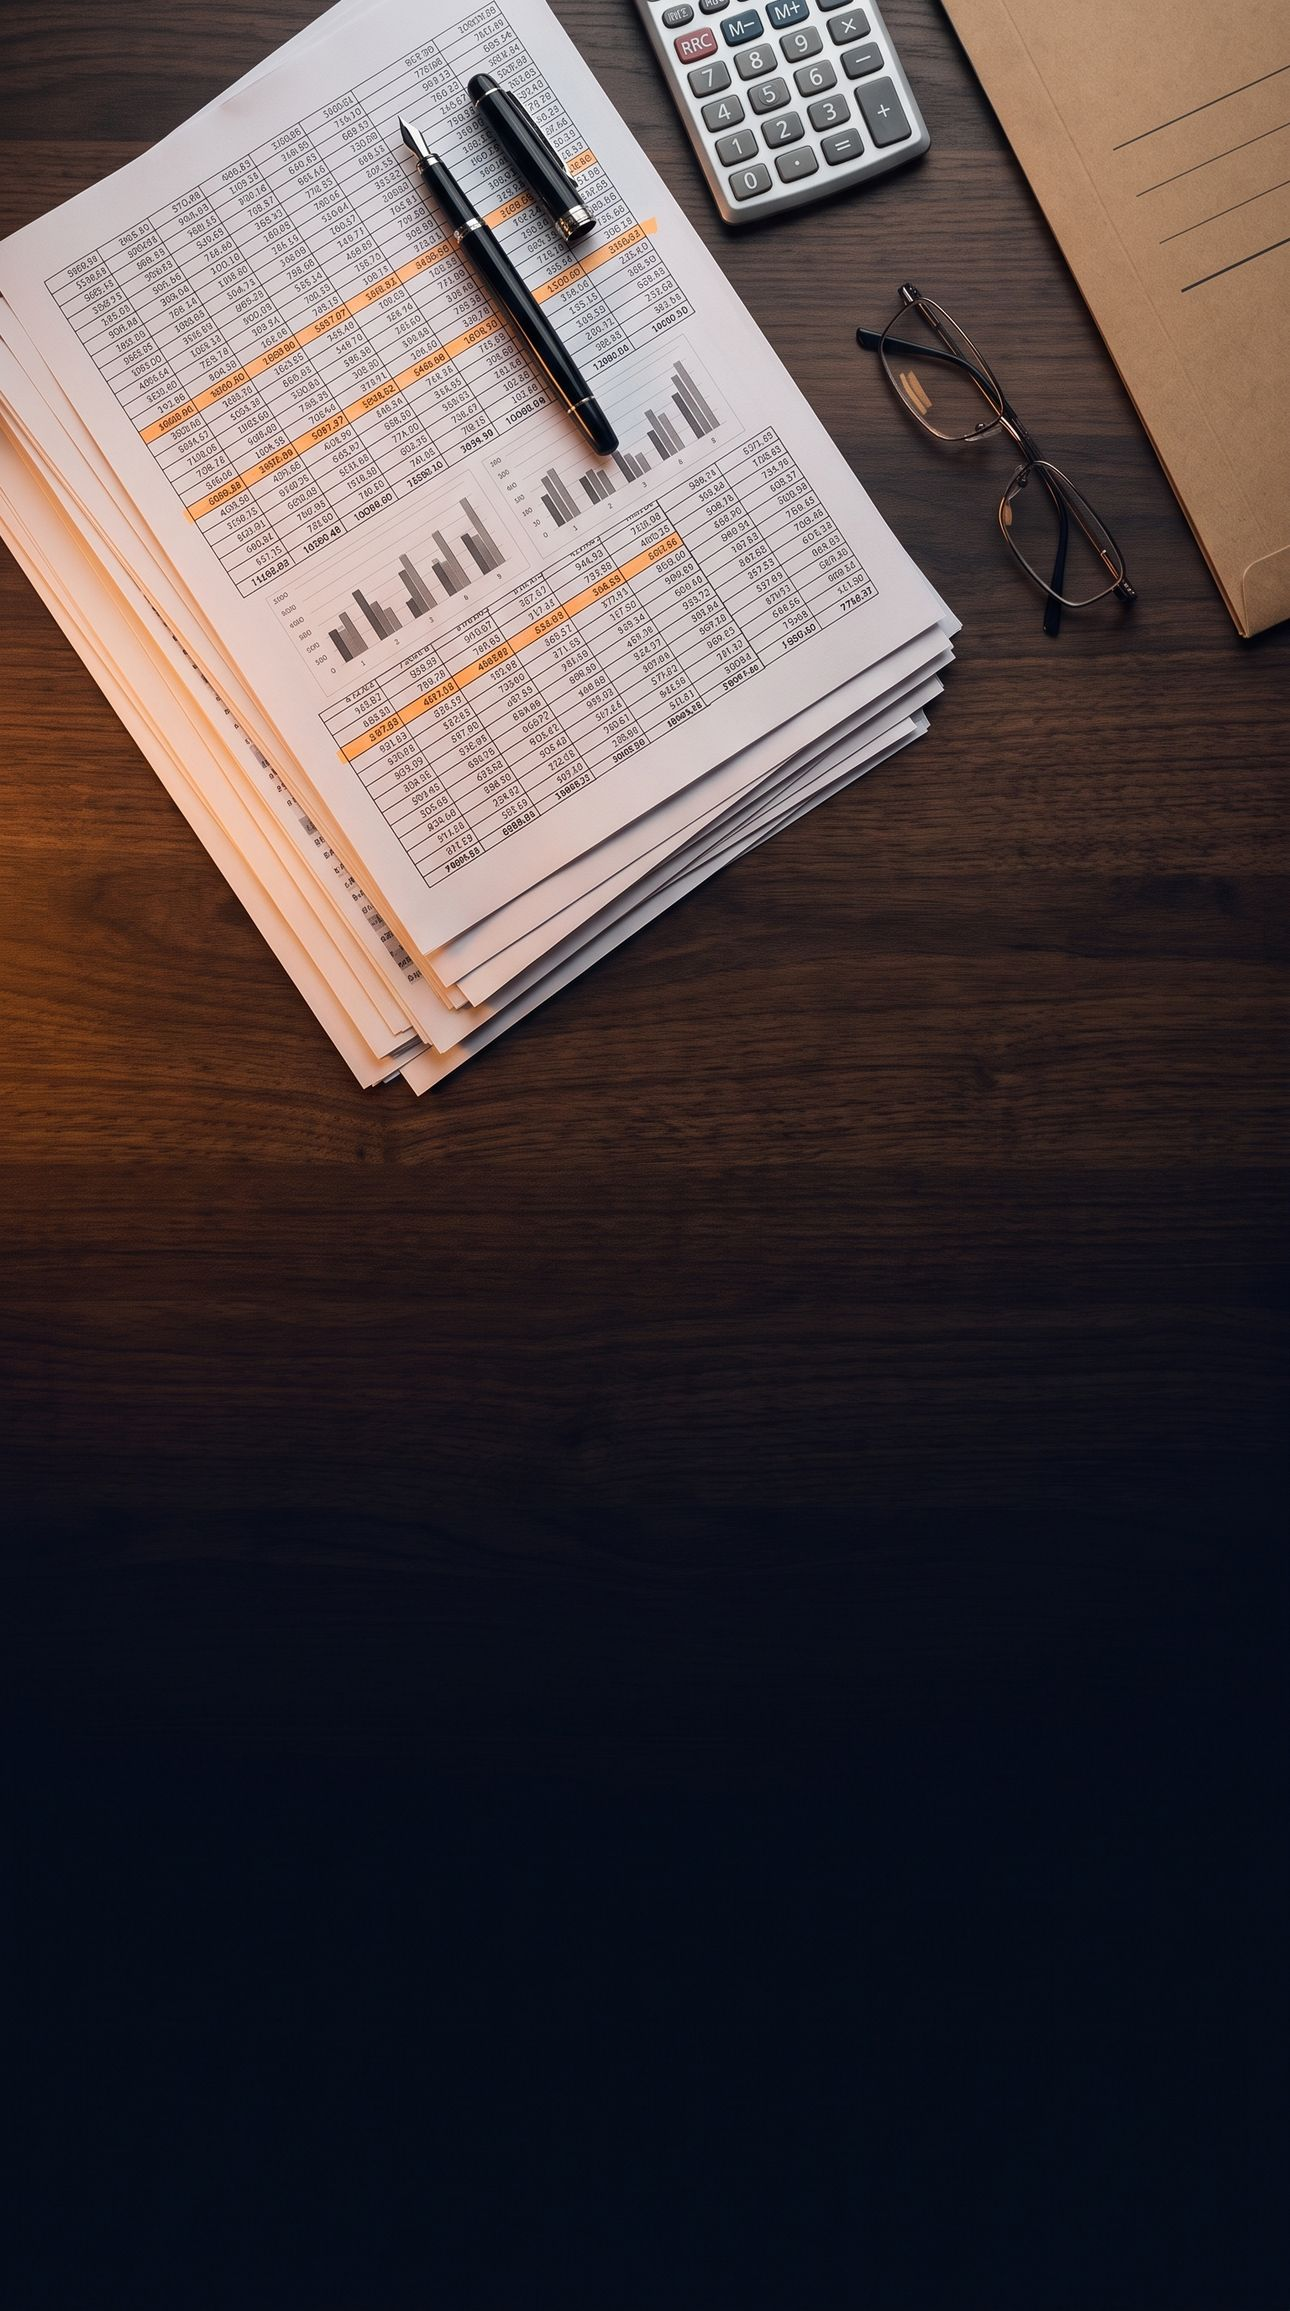
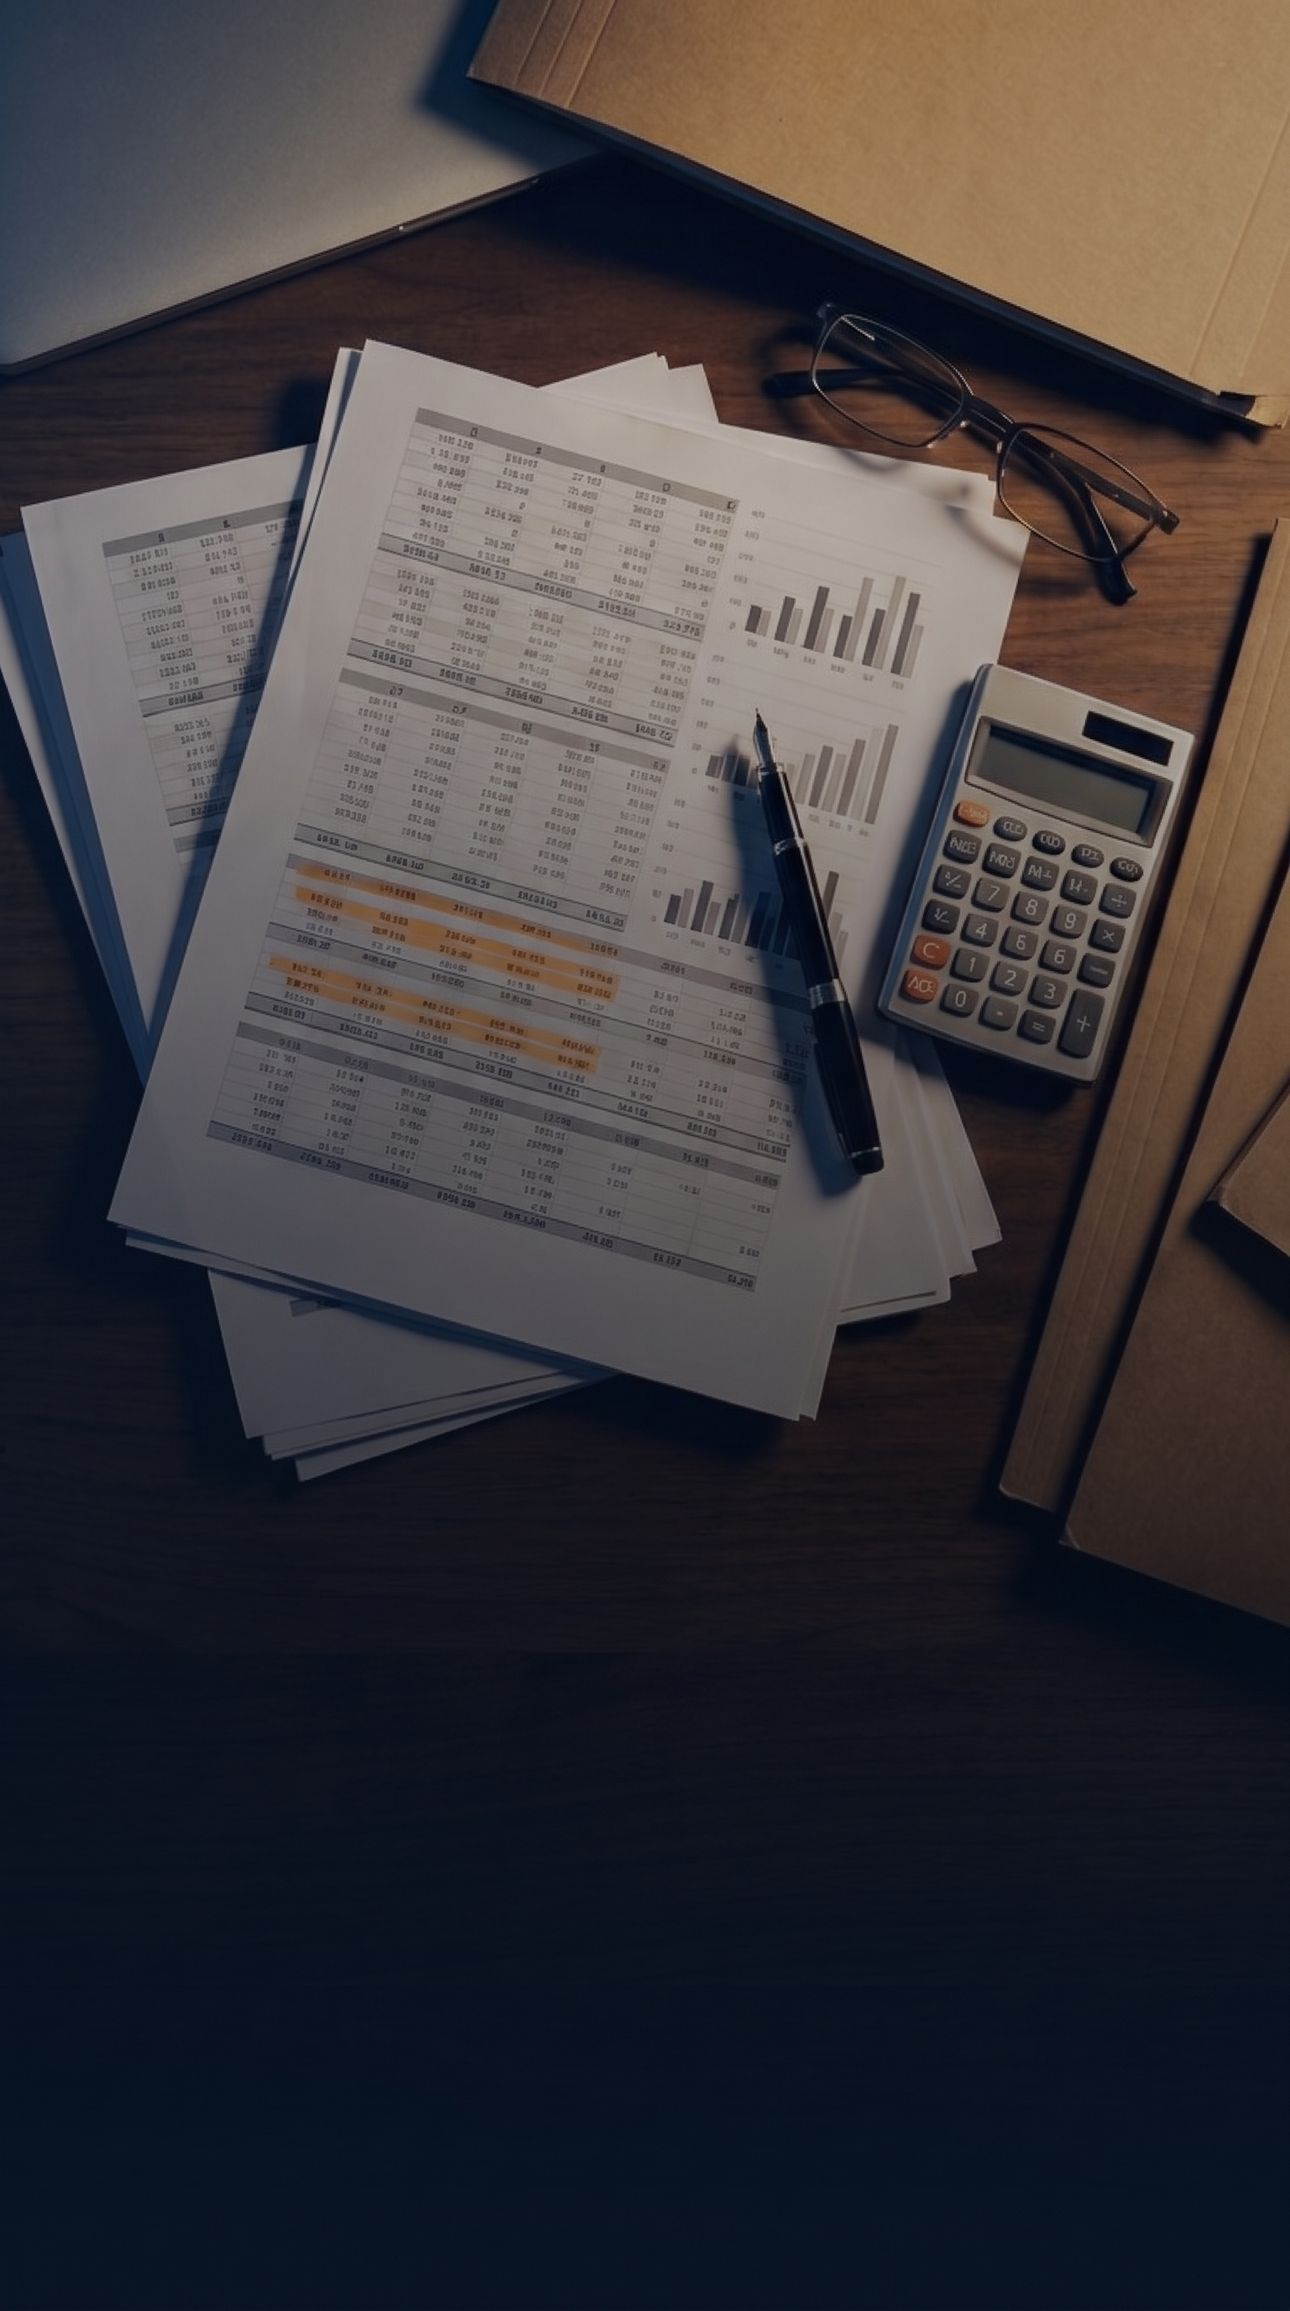
New hero background from reference; top-align audience card headings
- Hero: muted desk scene generated from the client's reference (desktop + phone, 2K)
- Social preview image rebuilt with the new photo
- Audience cards: heading tops and description tops aligned per row

diff --git a/index.html b/index.html
@@ -464,7 +464,7 @@ h1, h2, h3, h4 { font-family: var(--font-head); font-weight: 500; color: var(--t
 }
 .hero__media { position: absolute; inset: 0; }
 .hero__media picture { position: absolute; inset: 0; }
-.hero__media img { width: 100%; height: 100%; object-fit: cover; object-position: 0% 40%; transform: scale(1.04); animation: heroZoom 1.8s var(--ease-out) forwards; }
+.hero__media img { width: 100%; height: 100%; object-fit: cover; object-position: 70% 40%; transform: scale(1.04); animation: heroZoom 1.8s var(--ease-out) forwards; }
 .hero__tint { position: absolute; inset: 0; background: rgba(10, 42, 64, .35); mix-blend-mode: multiply; }
 .hero__shade {
   position: absolute; inset: 0;
@@ -581,7 +581,7 @@ h1, h2, h3, h4 { font-family: var(--font-head); font-weight: 500; color: var(--t
     .needs-grid { grid-auto-rows: auto; }
     .need-card { display: grid; grid-row: span 3; grid-template-rows: subgrid; row-gap: 0; min-height: 0; }
     .need-card__icon { margin-bottom: 72px; }
-    .need-card h3 { align-self: end; margin-top: 0; padding-top: 0; }
+    .need-card h3 { align-self: start; margin-top: 0; padding-top: 0; }
     .need-card p { align-self: start; }
   }
 }
